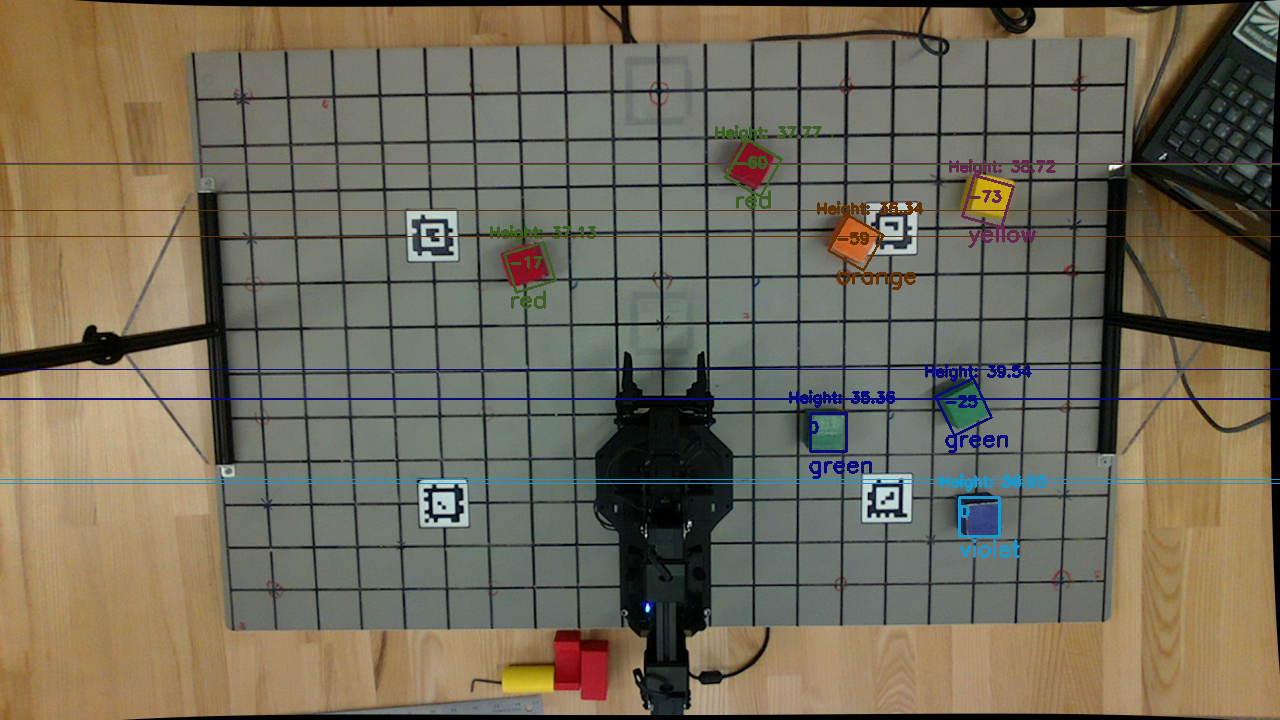
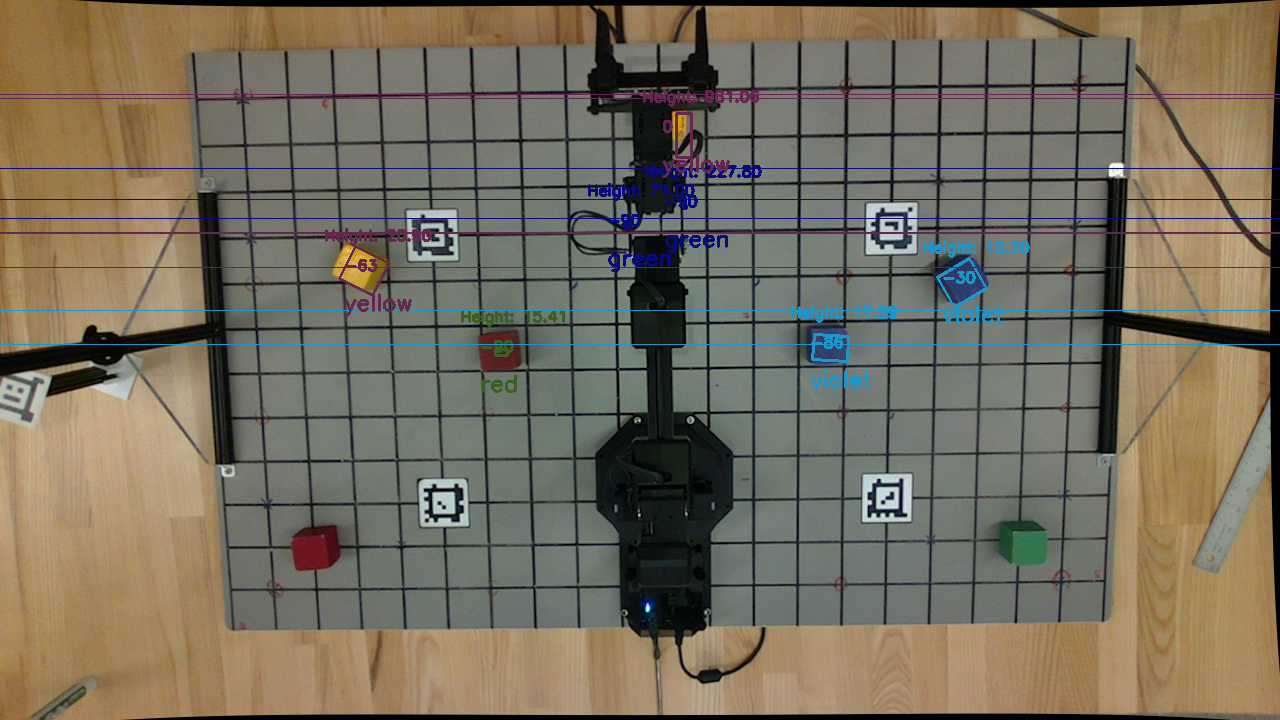
Upd IK. Better now. atleast 1 bug more

diff --git a/kinematics.py b/kinematics.py
@@ -106,7 +106,13 @@ def get_euler_angles_from_T(T):
     """
     R = T[0:3,0:3]  #Rotation Matrix
 
-    theta = math.atan2(math.sqrt(1-R[2][2]**2),R[2][2])
+    try:
+        theta = math.atan2(math.sqrt(1-round(R[2][2])**2),R[2][2])
+    except:
+        print(R)
+        print('\n')
+        print(R[2][2])
+        print('\n')
     if(math.sin(theta)>0):
         phi = math.atan2(R[1][2],R[0][2])
         psi = math.atan2(R[2][1],-R[2][0])
@@ -263,6 +269,95 @@ def IK_geometric(dh_params, pose):
 
 
 
+# def IK_geometric_two(dh_params, pose, direction):
+#     """!
+#     @brief      Get all possible joint configs that produce the pose.
+
+#                 TODO: Convert a desired end-effector pose vector as np.array to joint angles
+
+#     @param      dh_params  The dh parameters
+#     @param      pose       The desired pose vector as np.array 
+#     @param      direction  The direction of EE, it could be "flat" or "down"
+
+#     @return     All four possible joint configurations in a numpy array 4x4 where each row is one possible joint
+#                 configuration
+#     """
+#     l1 = 205.73
+#     l2 = 200
+#     d1 = 103.91
+#     angle_offset = math.pi/2 - math.atan2(50,200)
+#     # phi = pose[3]
+#     # theta = pose[4]
+#     # psi = pose[5]
+
+#     # End Effector Location
+#     pos_ee = np.array([pose[0],pose[1],pose[2]])
+#     x = pos_ee[0]
+#     y = pos_ee[1]
+#     z = pos_ee[2]
+
+
+#     link6_len = dh_params[4][2]; 
+#     if direction=="down":
+#         pos_wrist = pos_ee + np.array([0,0,link6_len])
+#     elif direction=="flat":
+#         # R_0_5 = rotation_matrix(-90,-90,0,'xzy')
+#         pos_wrist = pos_ee - np.transpose(np.append( pos_ee[0:2]*link6_len/la.norm(pos_ee[0:2]),0))
+#         print([pos_ee])
+
+#     # R_0_5 = get_R_from_euler_angles(phi,theta,psi)
+
+    
+    
+#     link6_len = dh_params[4][2]; 
+#     # pos_wrist = pos_ee - link6_len*np.matmul(R_0_5,np.array([[0],[0],[1]]))
+
+#     # Wrist location
+#     ox = pos_wrist[0]
+#     oy = pos_wrist[1]
+#     oz = pos_wrist[2]
+    
+#     planar_x = math.sqrt(ox**2 + oy**2)
+#     planar_y = oz - d1
+#     # Q1 - Calculation 
+#     q1 = math.atan2(oy,ox) - np.pi/2.0
+#     if q1 < -np.pi:
+#         q1 = q1 + 2*np.pi
+
+#     # Q3 - Calculation
+#     print((((planar_x**2 + planar_y**2) - l1**2 -l2**2)/(2*l1*l2)))
+
+#     try:
+#         theta_3 = math.acos(((planar_x**2 + planar_y**2) - l1**2 -l2**2)/(2*l1*l2))
+#     except:
+#         theta_3 = 0
+#         print('error in theta_3')
+
+#     theta_3 = -theta_3    # Choosing Elbow Up 
+#     q3 = theta_3 + angle_offset
+
+#     # Q2 - Calculation
+#     theta_2 = math.atan2(planar_y,planar_x) - math.atan2(l2*math.sin(theta_3),l1+l2*math.cos(theta_3))
+#     q2 = angle_offset - theta_2
+
+#     ## For Q3, Q4, Q5 calculations
+#     # joint_angles_mod = np.array([q1,q2,q3,0.0,0.0])
+#     # T_0_3 = FK_dh(dh_params, joint_angles_mod, 3)
+#     # R_0_3 = T_0_3[0:3,0:3]
+#     # R_3_5 = np.matmul(np.linalg.inv(R_0_3), R_0_5)
+
+#     # q4,q5,q6 = get_euler_angles_from_T(R_3_5)
+
+#     if direction=="down":
+#         q4 = q2-q3-math.pi/2  
+#         q5 = q1
+#     elif direction=="flat":
+#         q4 = q2-q3
+#         q5 = 0
+
+#     return [q1,q2,q3,q4,q5]
+
+
 def IK_geometric_two(dh_params, pose, direction):
     """!
     @brief      Get all possible joint configs that produce the pose.
@@ -276,80 +371,142 @@ def IK_geometric_two(dh_params, pose, direction):
     @return     All four possible joint configurations in a numpy array 4x4 where each row is one possible joint
                 configuration
     """
-    l1 = 205.73
-    l2 = 200
-    d1 = 103.91
+    # Defining co
+    l1 = dh_params[1][0] # 205.73
+    l2 = dh_params[2][0] # 200
+    d1 = dh_params[0][2] # 103.91
+    link6_len = dh_params[4][2]; 
     angle_offset = math.pi/2 - math.atan2(50,200)
-    # phi = pose[3]
-    # theta = pose[4]
-    # psi = pose[5]
+    # print(l1,l2,d1,link6_len,angle_offset)
+    # print('\n')
 
     # End Effector Location
     pos_ee = np.array([pose[0],pose[1],pose[2]])
     x = pos_ee[0]
     y = pos_ee[1]
     z = pos_ee[2]
+    # print(pos_ee)
+    # print('\n')
 
-
-    link6_len = dh_params[4][2]; 
     if direction=="down":
         pos_wrist = pos_ee + np.array([0,0,link6_len])
+        # print(pos_wrist)
+        # print('\n')
+        # print(link6_len)
+        # print('\n')
+        R_0_5 = get_R_from_euler_angles(0.0,np.pi,0.0)
     elif direction=="flat":
-        # R_0_5 = rotation_matrix(-90,-90,0,'xzy')
-        pos_wrist = pos_ee - np.transpose(np.append( pos_ee[0:2]*link6_len/la.norm(pos_ee[0:2]),0))
-        print([pos_ee])
-
-    # R_0_5 = get_R_from_euler_angles(phi,theta,psi)
-
-    
-    
-    link6_len = dh_params[4][2]; 
-    # pos_wrist = pos_ee - link6_len*np.matmul(R_0_5,np.array([[0],[0],[1]]))
+        R_0_5 = get_R_from_euler_angles(math.atan2(pose[1],pose[0]),np.pi/2,0.0)
+        pos_wrist = pos_ee - link6_len*np.matmul(R_0_5,np.array([0,0,1]))
 
     # Wrist location
     ox = pos_wrist[0]
     oy = pos_wrist[1]
     oz = pos_wrist[2]
-    
+    # print(ox,oy,oz)
+    # print('\n')
     planar_x = math.sqrt(ox**2 + oy**2)
     planar_y = oz - d1
+    # print(planar_x)
+    # print('\n')
+    # print(planar_y)
+    # print('\n')
     # Q1 - Calculation 
     q1 = math.atan2(oy,ox) - np.pi/2.0
     if q1 < -np.pi:
         q1 = q1 + 2*np.pi
 
     # Q3 - Calculation
-    print((((planar_x**2 + planar_y**2) - l1**2 -l2**2)/(2*l1*l2)))
-
-    try:
-        theta_3 = math.acos(((planar_x**2 + planar_y**2) - l1**2 -l2**2)/(2*l1*l2))
-    except:
+    c3 = ((planar_x**2 + planar_y**2) - l1**2 -l2**2)/(2*l1*l2)
+    
+    if np.absolute(c3) > 1:
+        print('Postion Unreachable')
+    elif c3 ==1:
+        theta_2 = math.atan2(oy,ox)
         theta_3 = 0
-        print('error in theta_3')
+        theta_3_alt = 0
+    elif c3 ==-1 and (planar_x**2 + planar_y**2) != 0:
+        theta_2 = math.atan2(oy,ox)
+        theta_3 = math.pi
+        theta_3_alt = -math.pi
+    elif c3 ==-1 and (planar_x**2 + planar_y**2) == 0:
+        theta_2 = 0 # picking zero, as it has infinite solutions
+        theta_3 = math.pi
+        theta_3_alt = -math.pi
+        print('Infinite solutions')
+    else:
+        theta_3 = math.acos(c3)
+        theta_3_alt = -math.acos(c3)
 
     theta_3 = -theta_3    # Choosing Elbow Up 
     q3 = theta_3 + angle_offset
+    q3_alt = theta_3_alt + angle_offset
 
     # Q2 - Calculation
     theta_2 = math.atan2(planar_y,planar_x) - math.atan2(l2*math.sin(theta_3),l1+l2*math.cos(theta_3))
+    theta_2_alt = math.atan2(planar_y,planar_x) - math.atan2(l2*math.sin(theta_3_alt),l1+l2*math.cos(theta_3_alt))
     q2 = angle_offset - theta_2
+    q2_alt = angle_offset - theta_2_alt
 
-    ## For Q3, Q4, Q5 calculations
-    # joint_angles_mod = np.array([q1,q2,q3,0.0,0.0])
-    # T_0_3 = FK_dh(dh_params, joint_angles_mod, 3)
-    # R_0_3 = T_0_3[0:3,0:3]
-    # R_3_5 = np.matmul(np.linalg.inv(R_0_3), R_0_5)
+    q_1_2_3_A1 = np.array([q1,q2,q3])
+    q_1_2_3_A2 = np.array([q1,q2_alt,q3_alt])
 
-    # q4,q5,q6 = get_euler_angles_from_T(R_3_5)
+    # For A1 - For Q3, Q4, Q5 calculations
+    joint_angles_mod_A1 = np.array([q1,q2,q3,0.0,0.0])
+    T_0_3_A1 = FK_dh(dh_params, joint_angles_mod_A1, 3)
+    R_0_3_A1 = T_0_3_A1[0:3,0:3]
+    R_3_5_A1 = np.matmul(np.linalg.inv(R_0_3_A1), R_0_5)
 
-    if direction=="down":
-        q4 = q2-q3-math.pi/2  
-        q5 = q1
-    elif direction=="flat":
-        q4 = q2-q3
-        q5 = 0
+    # For A2 - For Q3, Q4, Q5 calculations
+    joint_angles_mod_A2 = np.array([q1,q2_alt,q3_alt,0.0,0.0])
+    T_0_3_A2 = FK_dh(dh_params, joint_angles_mod_A2, 3)
+    R_0_3_A2 = T_0_3_A2[0:3,0:3]
+    R_3_5_A2 = np.matmul(np.linalg.inv(R_0_3_A2), R_0_5)
 
-    return [q1,q2,q3,q4,q5]
+    q4_A1,q5_A1,q6_A1 = get_euler_angles_from_T(R_3_5_A1)
+    q4_A2,q5_A2,q6_A2 = get_euler_angles_from_T(R_3_5_A2)
+
+    # Checking q1,q2,q3,q4,q5
+    joint_angles_A1 = np.concatenate((q_1_2_3_A1, np.array([q4_A1,q5_A1,q6_A1])), axis=None)
+    joint_angles_A2 = np.concatenate((q_1_2_3_A2, np.array([ q4_A2,q5_A2,q6_A2])), axis=None)
+
+    T_A1 = FK_dh(dh_params, joint_angles_A1, 5)
+    T_A2 = FK_dh(dh_params, joint_angles_A2, 5)
+
+    try: 
+        pose_A1 = get_pose_from_T(T_A1)
+        if np.allclose(pos_ee, np.array(pose_A1[0:3]), rtol=1e-04, atol=1e-05, equal_nan=False):
+            print(T_A1)
+            print('\n')
+            print(np.array(pose_A1[0:3]))
+            print('\n')
+            if direction == "flat":
+                q7 = 0
+            else:
+                q7 = q6_A1
+            return [q1,q2,q3,q4_A1,q7]
+        else:
+            q8 = error_intentional
+    except:
+        pose_A2 = get_pose_from_T(T_A2)
+        print(T_A2)
+        print('\n')
+        print(np.array(pose_A2[0:3]))
+        print('\n')
+        if direction == "flat":
+            q7 = 0
+        else:
+            q7 = q6_A2
+        return [q1,q2,q3,q4_A2,q7]
+
+    # if direction=="down":
+    #     q4 = q2-q3-math.pi/2  
+    #     q5 = q1
+    # elif direction=="flat":
+    #     q4 = q2-q3
+    #     q5 = 0
+
+    # return [q1_f,q2_f,q3_f,q4_f,q5_f]
 
 def rotation_matrix(theta1, theta2, theta3, order='xyz'):
     """

diff --git a/state_machine.py b/state_machine.py
@@ -454,7 +454,7 @@ class StateMachine():
                 R = np.matmul(V, U_rot.T)
                 detR = np.linalg.det(R)
                 print('Had to correct for planar points')
-                print('New determinant is {detR}')
+                # print(f'New determinant is {detR}')
 
             T = camera_mean.T - np.matmul(R, world_mean.T)
             
@@ -513,7 +513,7 @@ class StateMachine():
                 pt = self.camera.last_click
                 ptW = self.camera.PixeltoWorldPos(pt[0],pt[1])
                 ptW_approch = self.camera.PixeltoWorldPos(pt[0],pt[1])
-                ptW[2] = ptW[2] + 15
+                ptW[2] = ptW[2] + 25
                 ptW_approch[2] = ptW_approch[2] + 100
                 theta_des = IK_geometric_two(self.rxarm.dh_params,ptW[0:3].reshape(3),'down')
                 theta_des_approach = IK_geometric_two(self.rxarm.dh_params,ptW_approch[0:3].reshape(3),'down')
@@ -541,7 +541,7 @@ class StateMachine():
                 pt = self.camera.last_click
                 ptW = self.camera.PixeltoWorldPos(pt[0],pt[1])
                 ptW_approch = self.camera.PixeltoWorldPos(pt[0],pt[1])
-                ptW[2] = ptW[2] + 15
+                ptW[2] = ptW[2] + 50
                 ptW_approch[2] = ptW_approch[2] + 100
                 theta_des = IK_geometric_two(self.rxarm.dh_params,ptW[0:3].reshape(3),'down')
                 theta_des_approach = IK_geometric_two(self.rxarm.dh_params,ptW_approch[0:3].reshape(3),'down')
